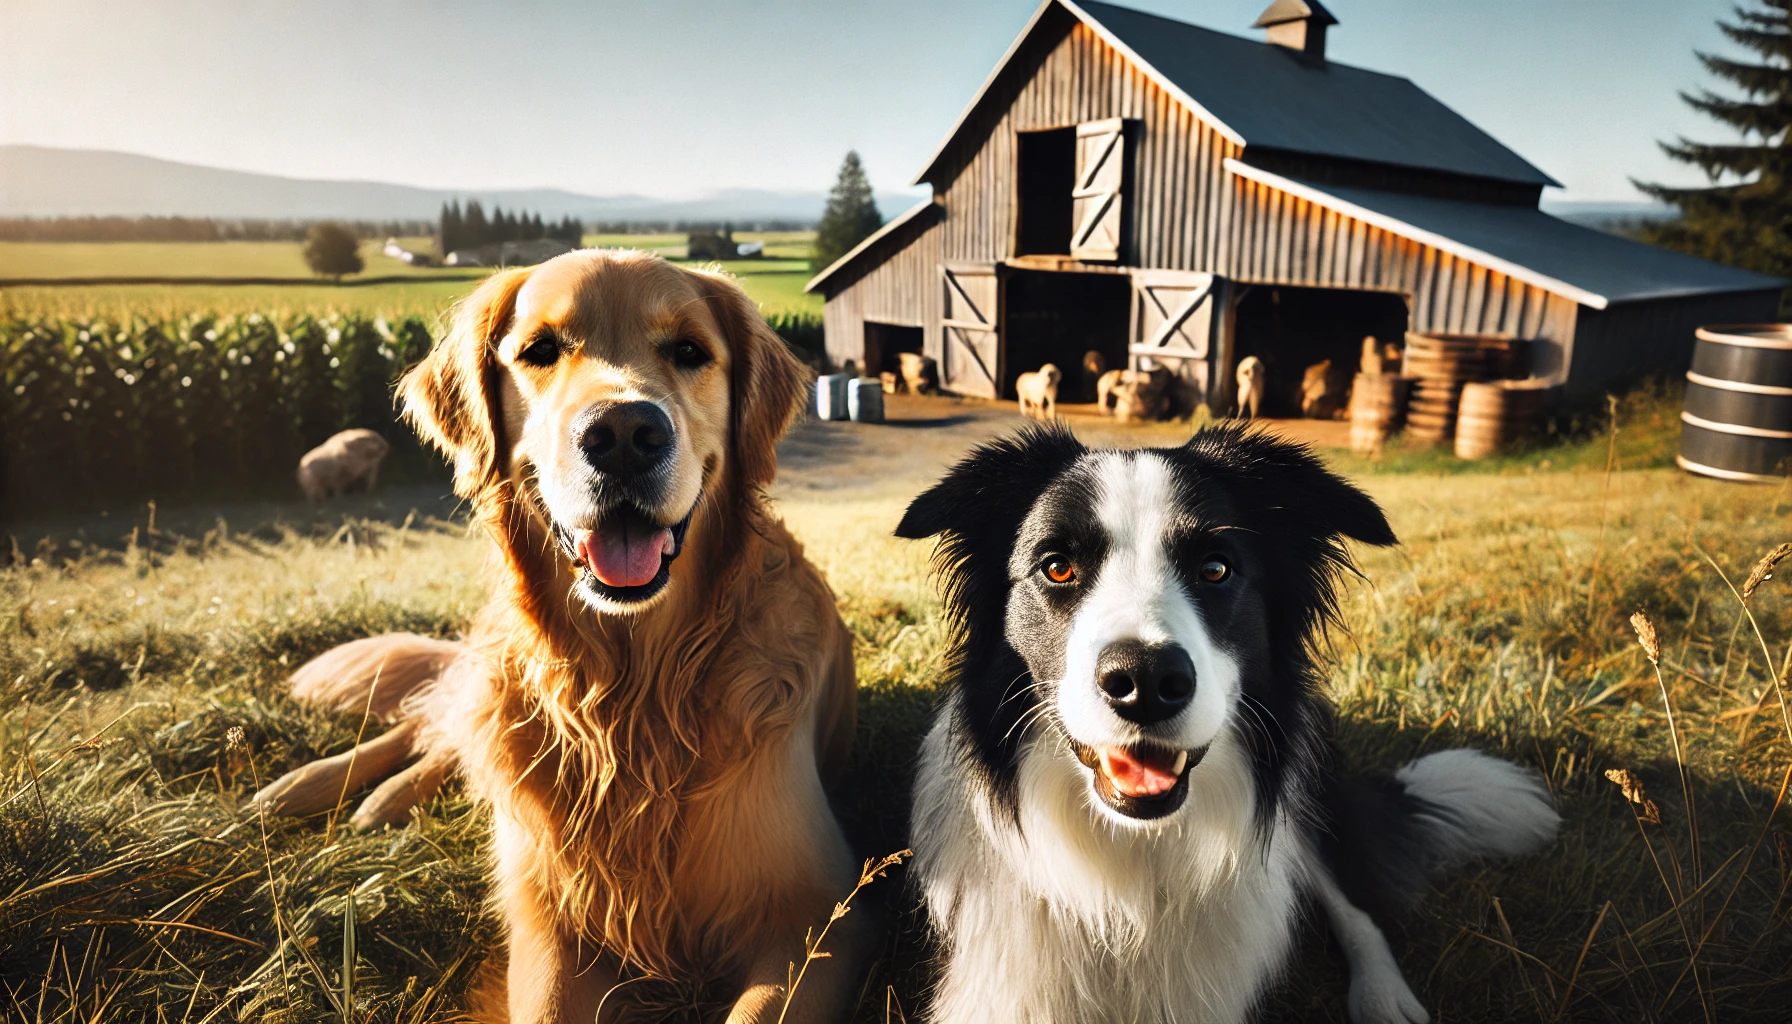
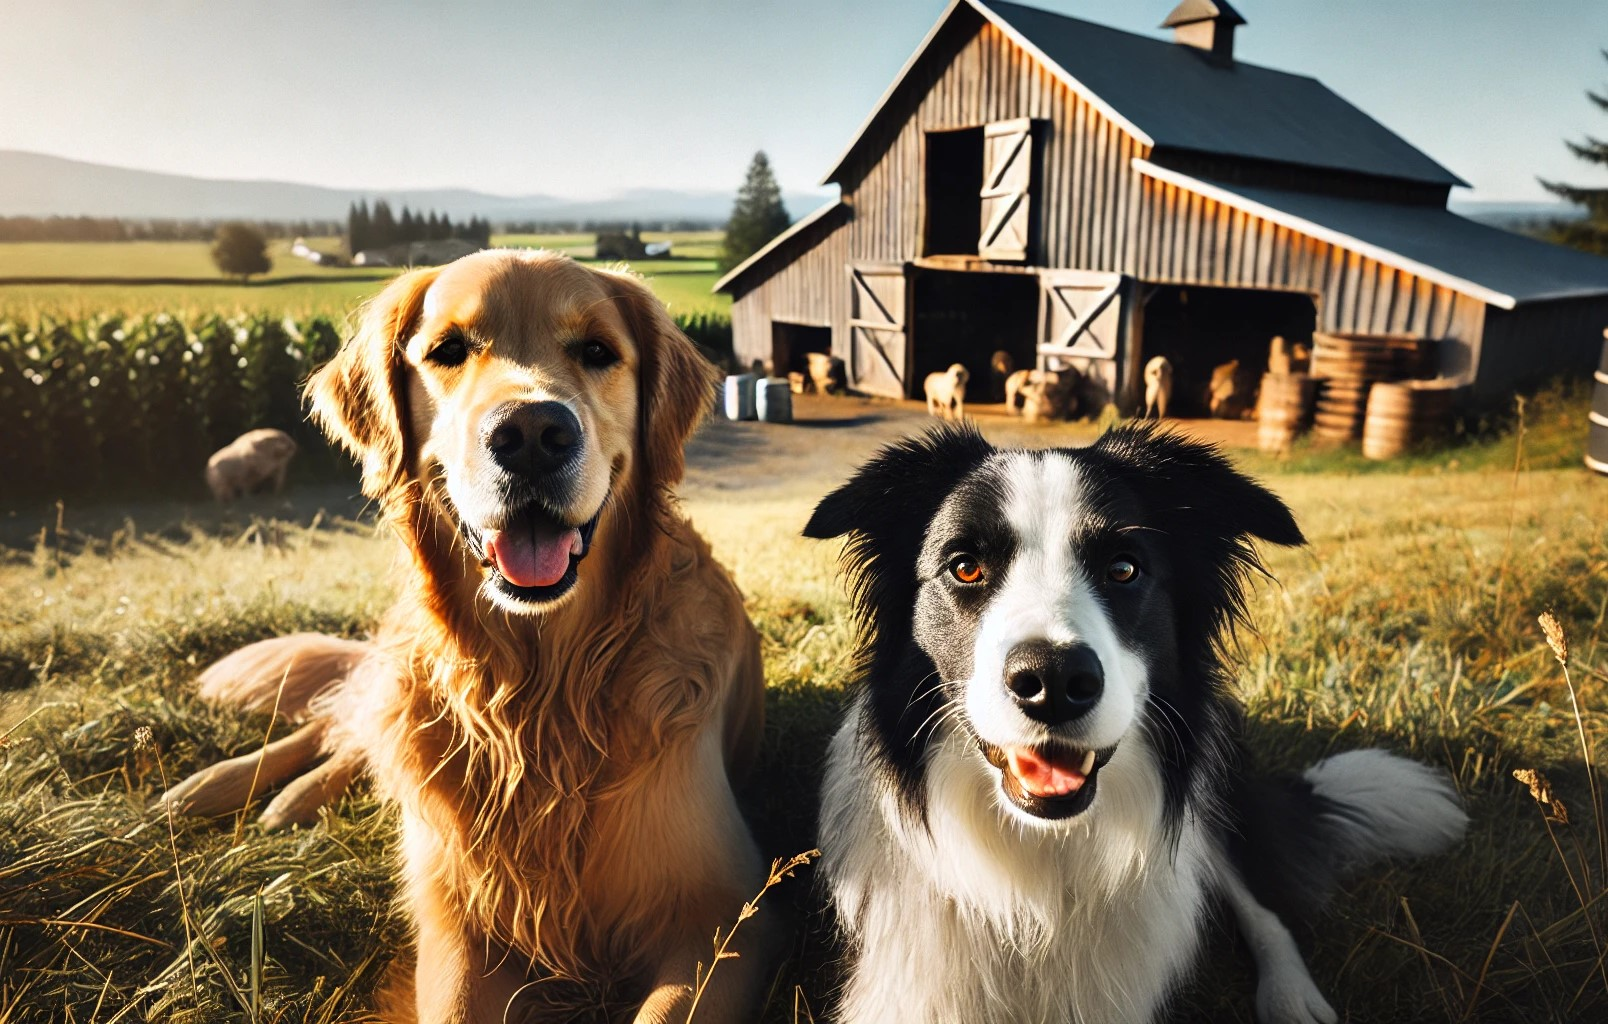
V0.4

diff --git a/index.html b/index.html
@@ -45,16 +45,16 @@
         }
         .hero {
     background-image: url('Images/Background.jpg');
-<!-- Replace with your image -->
-            background-size: cover;
-    background-position: center;
-    height: 1792px;
-    max-height: 630px;
-    display: flex;
-    justify-content: center;
-    align-items: center;
-    color: white;
-    text-align: center;
+        background-size: contain;
+		background-position: center;
+		background-repeat: no-repeat;
+		height: 1792px;
+		max-height: 630px;
+		display: flex;
+		justify-content: center;
+		align-items: center;
+		color: white;
+		text-align: center;
 <!-- Offset to prevent content overlap -->
         }
         .hero h1 {
@@ -96,6 +96,13 @@
     </header>
     <div class="hero" id="home">
         <h1>Welcome to Homestead Puppies</h1>
+    </div>
+	<div class="container">
+        <div class="section" id="about">
+            <h2>About Us</h2>
+			<h3> Welcome to Homestead Puppies!</h3>
+            <p>At Homestead Puppies, we are passionate about bringing joy and companionship to families through our lovingly raised puppies. Specializing in Cavalier King Charles Spaniels, Shih Tzus, Dachshunds, and Golden Retrievers, our mission is to provide healthy, happy, and well-socialized puppies that make the perfect addition to any home. Our commitment to quality begins with our careful selection of breeding pairs, ensuring that each puppy inherits the best traits of their breed. We prioritize the health and well-being of our puppies, raising them in a nurturing environment where they receive the attention, love, and early socialization they need to thrive. Whether you're looking for the playful spirit of a Dachshund, the gentle nature of a Cavalier King Charles Spaniel, the loyalty of a Golden Retriever, or the affectionate companionship of a Shih Tzu, Homestead Puppies is here to help you find your new best friend. Thank you for considering Homestead Puppies as your trusted breeder. We look forward to helping you welcome a new furry member to your family!</p>
+        </div>
     </div>
     <footer>
         <p>&copy; 2024 Homestead Puppies. All rights reserved.</p>
